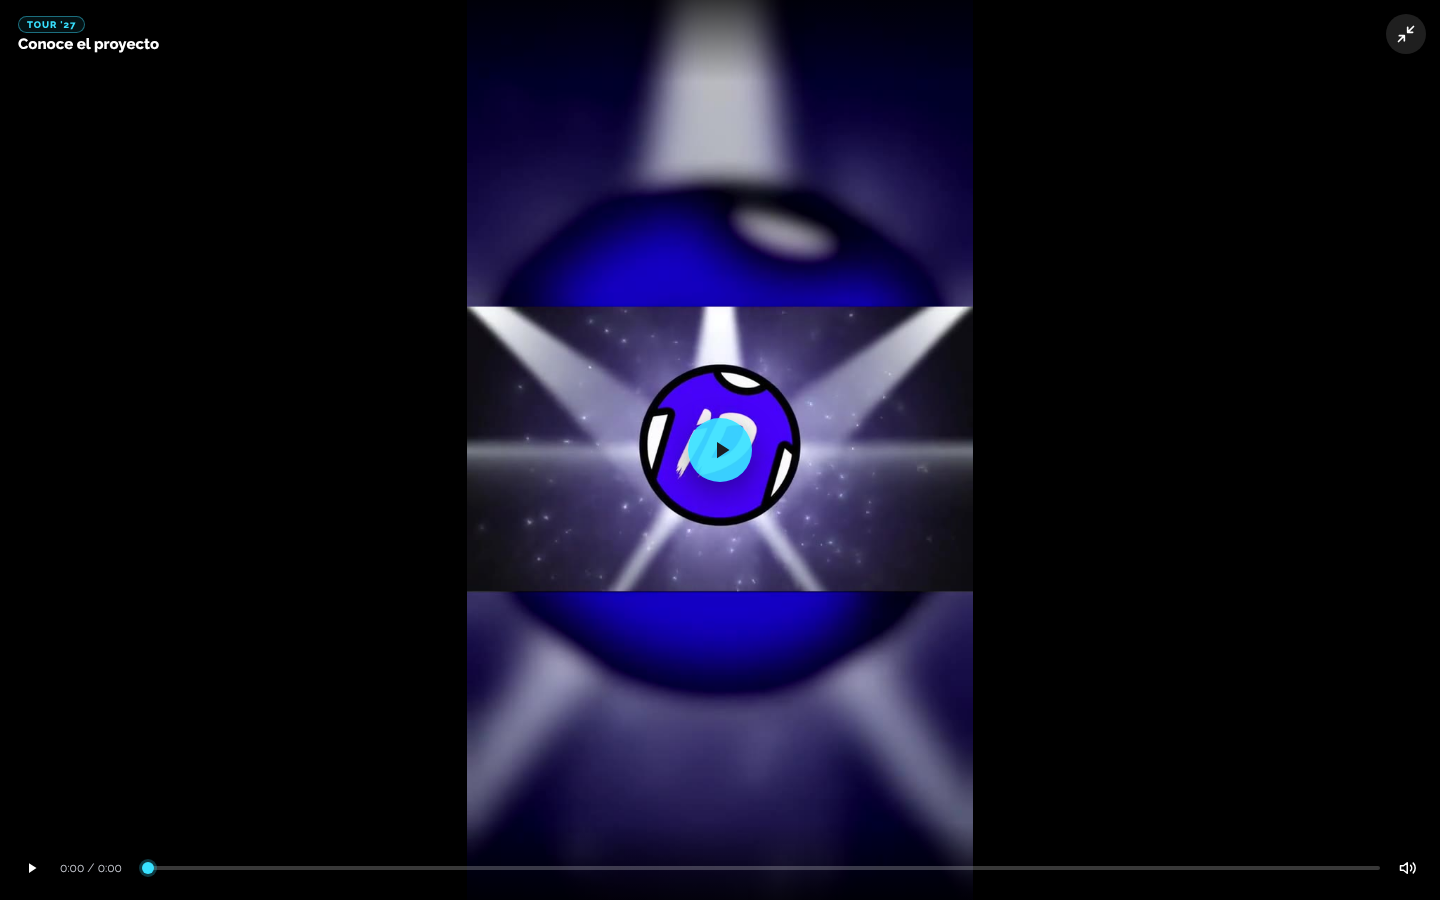
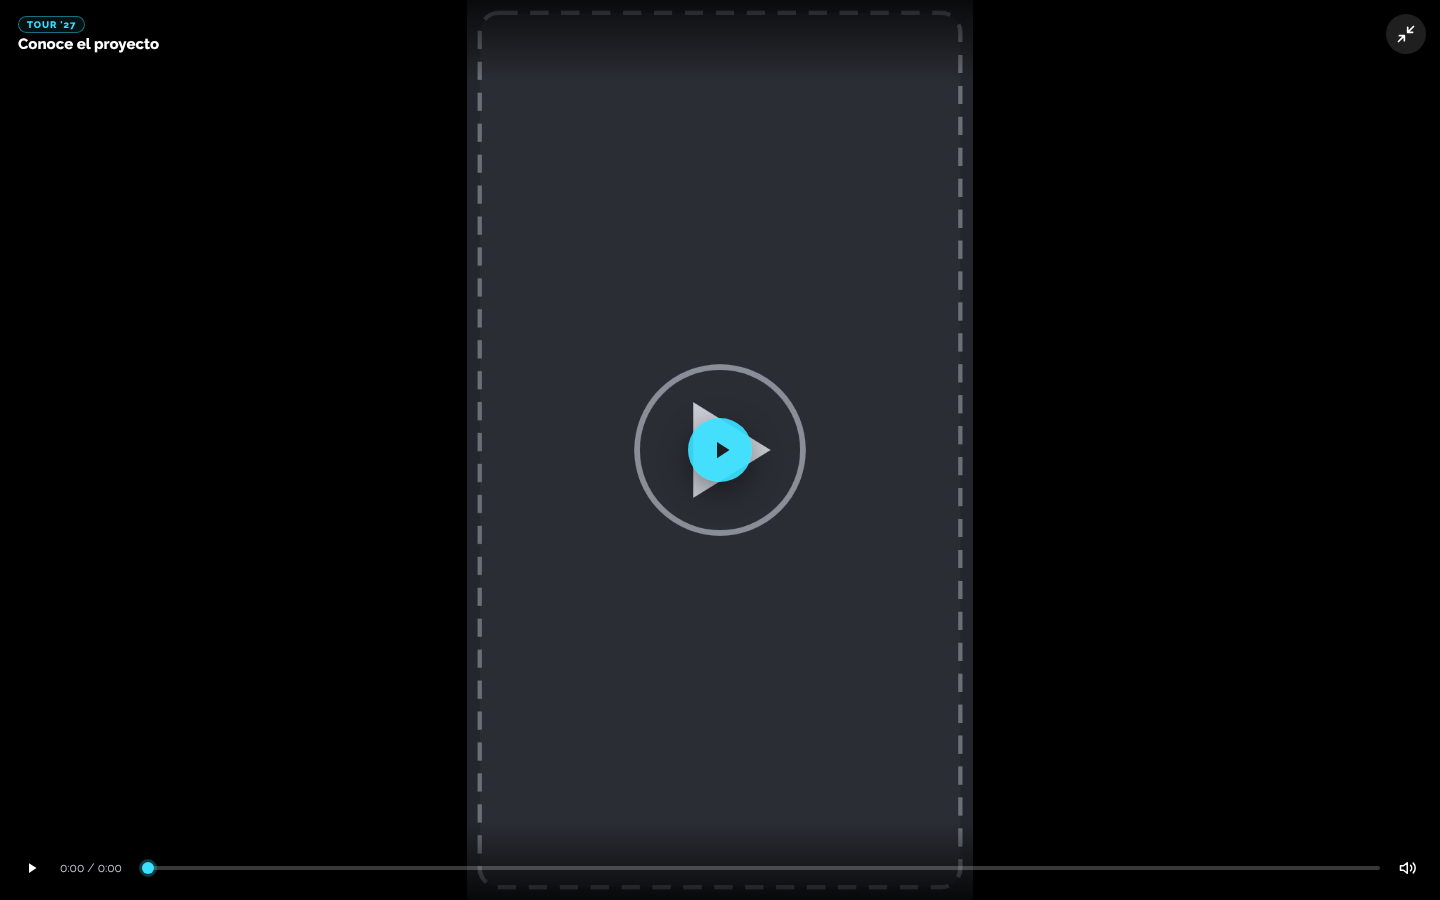
chore(tour): carátula de relleno en recuadro gris punteado con un play
Para las capturas: en vez del primer cuadro de un video que no es el
final, un recuadro 9:16 gris oscuro punteado con un play, al tamaño del
video. La carátula real llegará por TOUR_VIDEO_POSTER.

Claude-Session: https://claude.ai/code/session_01TBS5J98YBvjYTTdc9XtUtE

Changed region(s): [[0.3125, 0.0, 0.6875, 0.9956]]

diff --git a/index.js b/index.js
@@ -1096,6 +1096,8 @@ function partialDe(variante) {
  * S3: `TOUR_VIDEO_URL` y `TOUR_VIDEO_POSTER` apuntan allá cuando existan.
  * Mientras tanto se usa UN VIDEO DE RELLENO (el tour del panel, en vertical
  * 720×1280) nada más para fijar tamaños y dimensiones; no es el video final.
+ * La carátula de relleno es un recuadro gris punteado con un play (pedido
+ * del usuario, para que las capturas no enseñen un video que no es).
  */
 function videoDelTour(variante, req, lang) {
   if (!variante || variante.tipo !== 'tour') return null;
@@ -1104,7 +1106,7 @@ function videoDelTour(variante, req, lang) {
   const isEs = lang !== 'en';
   return {
     src: process.env.TOUR_VIDEO_URL || '/assets/videos/onboarding/tour-riesgo-mobile.mp4',
-    poster: process.env.TOUR_VIDEO_POSTER || '/assets/images/tour27-video-poster.jpg',
+    poster: process.env.TOUR_VIDEO_POSTER || '/assets/images/tour27-video-poster.png',
     // Corto a propósito: en la card cerrada de web la pastilla tiene ~100 px.
     kicker: "Tour '27",
     titulo: isEs ? 'Conoce el proyecto' : 'Meet the project',

diff --git a/docs/variables-del-proyecto.md b/docs/variables-del-proyecto.md
@@ -52,7 +52,7 @@ no es para el front, no lo agregues a ninguna.
 | Variable | Qué es | Si falta |
 |---|---|---|
 | `TOUR_VIDEO_URL` | URL pública del `.mp4` en S3 (vertical 9:16, H.264 + AAC) | se sirve el relleno `/assets/videos/onboarding/tour-riesgo-mobile.mp4` |
-| `TOUR_VIDEO_POSTER` | URL de la carátula (el primer cuadro, JPG) | `/assets/images/tour27-video-poster.jpg` |
+| `TOUR_VIDEO_POSTER` | URL de la carátula (el primer cuadro, JPG) | `/assets/images/tour27-video-poster.png` (recuadro gris punteado con un play) |
 
 El reproductor solo se emite para accesos de **nivel tour**; con nivel de
 partido no aparece. El bucket tiene que mandar `Content-Type: video/mp4` y
